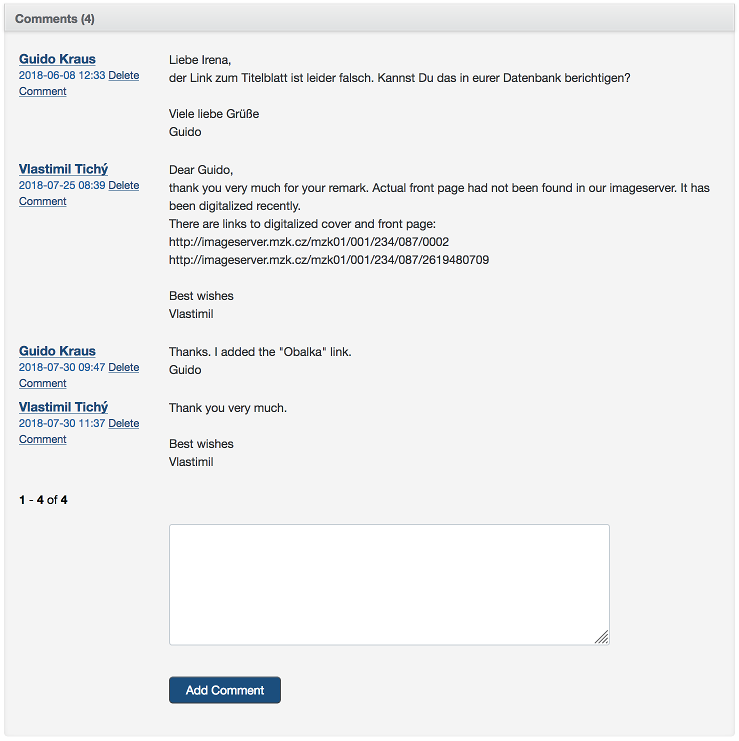
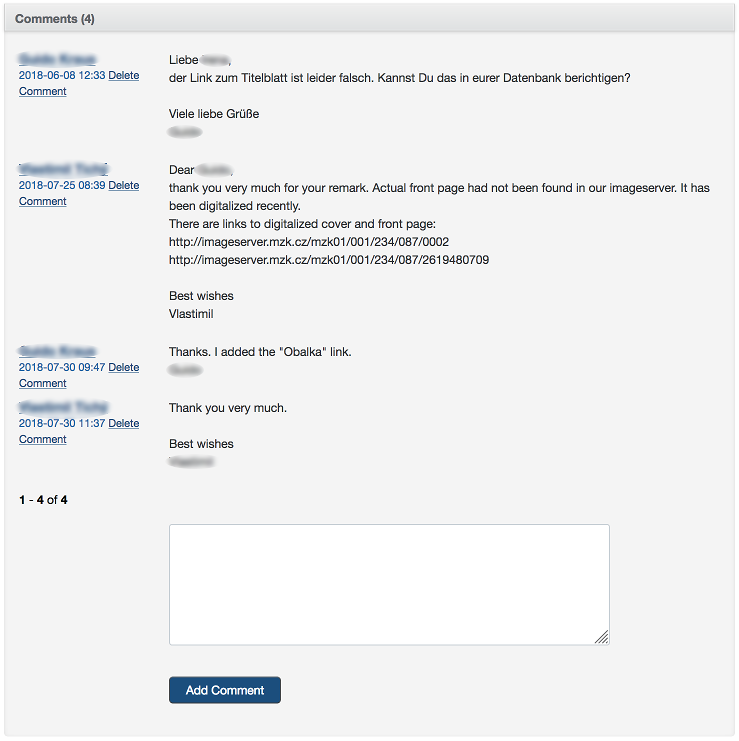
Changing title and making comments anonymous

diff --git a/index.html b/index.html
@@ -9,7 +9,7 @@ layout: default
             <div class="row align-items-center">
                 <div class="col-md-6 col-lg-9">
                     <h3 class="mb-4">
-                        Muscat is the online web-application for cataloguing and publishing music sources developed by the RISM
+                        Muscat is the online web-application for cataloguing and publishing music sources developed by RISM
                     </h3>
                     <p>
                         <a class="btn btn-primary btn-sm" href="{{ site.baseurl }}/history.html" role="button">History of the project »</a>
